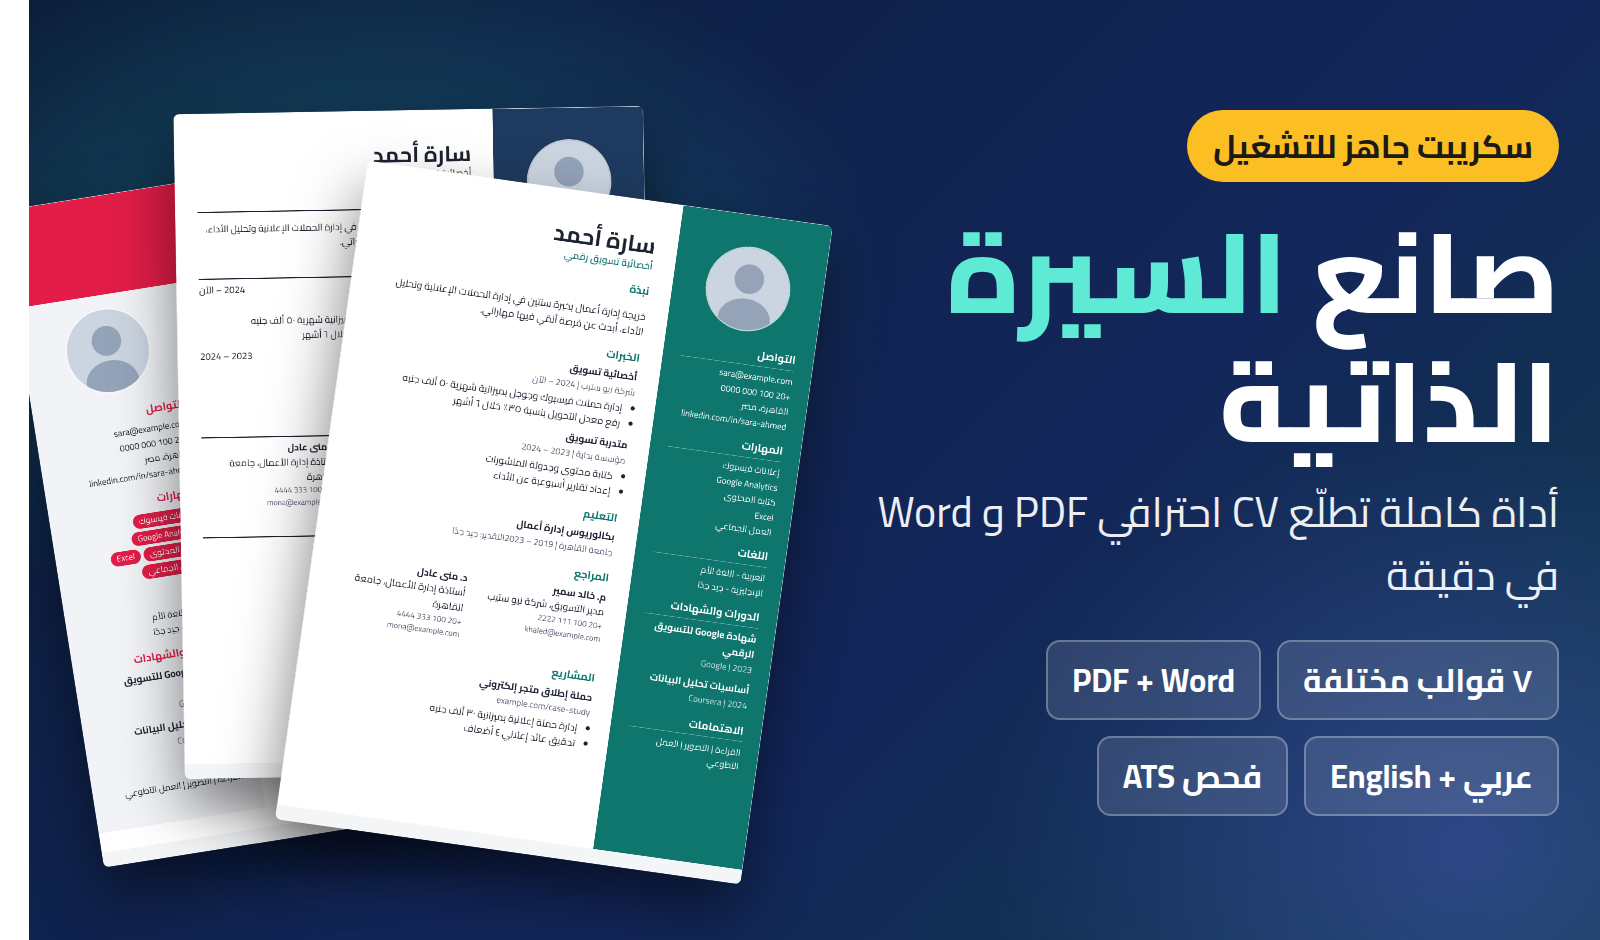
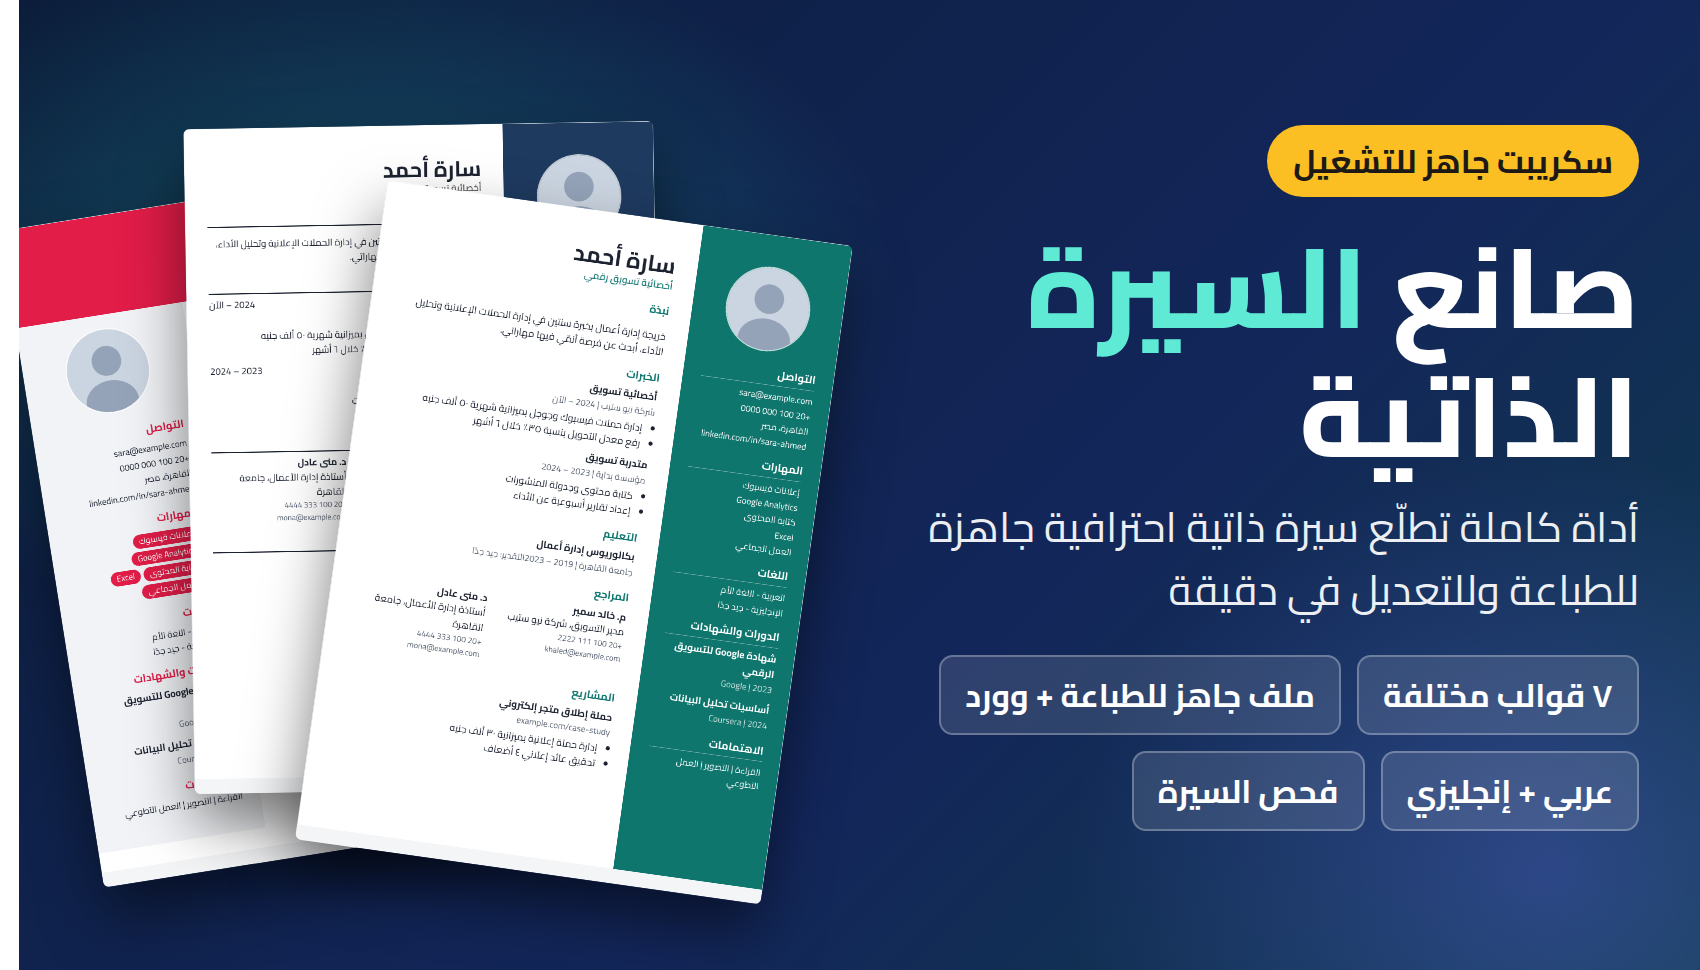
CV Builde Update

diff --git a/index.html b/index.html
@@ -179,6 +179,13 @@
           ><img src="imgs/Mostaql.jpeg" alt="Mostaql" /><span>Mostaql</span></a
         >
       </div>
+      <a
+        href="https://khamsat.com/programming/scripting/4473545-%D8%A3%D8%AF%D8%A7%D8%A9-%D8%AC%D8%A7%D9%87%D8%B2%D8%A9-%D9%84%D8%A5%D9%86%D8%B4%D8%A7%D8%A1-%D8%B3%D9%8A%D8%B1%D8%A9-%D8%B0%D8%A7%D8%AA%D9%8A%D8%A9-%D8%A7%D8%AD%D8%AA%D8%B1%D8%A7%D9%81%D9%8A%D8%A9-%D8%A8%D8%A7%D9%84%D8%B9%D8%B1%D8%A8%D9%8A-%D9%88%D8%A7%D9%84%D8%A5%D9%86%D8%AC%D9%84%D9%8A%D8%B2%D9%8A"
+        class="buy-btn"
+        target="_blank"
+        rel="noopener"
+        >Buy this project on Khamsat</a
+      >
       <p class="copyright">
         &copy; <span id="currentYear">2026</span> Ahmed Hassan.
         <span>All rights reserved.</span>

diff --git a/Style.CSS b/Style.CSS
@@ -752,3 +752,25 @@ body {
 #sheet.measuring .cv {
   min-height: 0 !important;
 }
+/* لينك الشراء على خمسات */
+.buy-btn {
+  display: inline-block;
+  background-color: #facc15;
+  color: #0f172a;
+  font-weight: 600;
+  text-decoration: none;
+  padding: 12px 28px;
+  border-radius: 999px;
+  margin: 8px 0 18px;
+  transition:
+    background-color 0.2s,
+    transform 0.2s;
+}
+.buy-btn:hover {
+  background-color: #eab308;
+  transform: translateY(-2px);
+}
+.buy-btn:focus-visible {
+  outline: 2px solid #ffffff;
+  outline-offset: 3px;
+}
